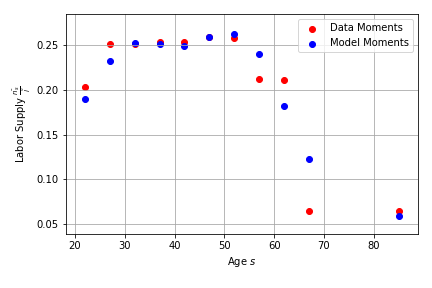
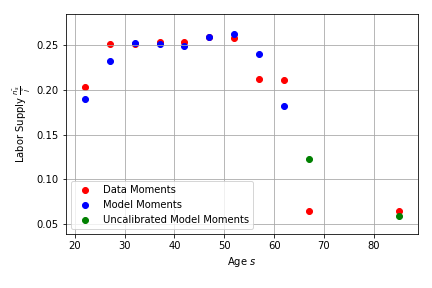
calibration files

diff --git a/ogusa/calibration/chebyshev_calibration.py b/ogusa/calibration/chebyshev_calibration.py
@@ -3,6 +3,7 @@ import numpy as np
 import pandas as pd
 import scipy.optimize as opt
 import matplotlib.pyplot as plt
+import scipy.interpolate as si
 
 def func(x, a0, a1, a2, a3, a4):
     func = np.polynomial.chebyshev.chebval(x, [a0, a1, a2, a3, a4])
@@ -29,8 +30,8 @@ def get_chebyshev_params(data_moments):
     ages = np.linspace(20, 65, 46)
     return np.polynomial.chebyshev.chebfit(ages, data_moments, 4)
 
-print('Values:')
-get_values(a0,a1,a2,a3,a4)
+# print('Values:')
+# get_values(a0,a1,a2,a3,a4)
 
 chi_values = np.array([97.18375544, 84.29385451, 73.28369617, 63.97171784, 56.18503188, #25
        49.75942557, 44.53936113, 40.37797572, 37.13708141, 34.68716522, #30
@@ -113,11 +114,128 @@ data_moments = get_data_moments()
 plt.xlabel(r'Age $s$')
 plt.ylabel(r'Labor Supply $\frac{\bar{n_s}}{\tilde{l}}$')
 plt.scatter(labels, data_moments, color = 'r', label = r'Data Moments')
-plt.legend(loc='upper right')
-plt.scatter(labels, model_moments, color = 'b', label = r'Model Moments')
-plt.legend(loc='upper right')
+plt.legend(loc='lower left')
+plt.scatter(labels[:-2], model_moments[:-2], color = 'b', label = r'Model Moments')
+plt.legend(loc='lower left')
+plt.scatter(labels[-2:], model_moments[-2:], color = 'g', label = r'Uncalibrated Model Moments')
+plt.legend(loc='lower left')
 plt.grid(b=True, which='major', color='0.65', linestyle='-')
 plt.tight_layout(rect=(0, 0.03, 1, 1))
 plt.savefig("labor_moments.png")
 plt.show()
 plt.close()
+
+#%%
+# new chi_n calibration:
+labor_hours = np.array([167, 165, 165, 165, 165, 166, 165, 165, 164])#, 166, 164])
+labor_part_rate = np.array([0.69, 0.849, 0.849, 0.847, 0.847, 0.859, 0.859, 0.709, 0.709])#, 0.212, 0.212])
+employ_rate = np.array([0.937, 0.954, 0.954, 0.966, 0.966, 0.97, 0.97, 0.968, 0.968])#, 0.978, 0.978])
+labor_hours_adj = labor_hours * labor_part_rate * employ_rate
+labor_moments = labor_hours_adj * 12 / (365 * 17.5)
+data_moments_trunc = np.array(list(labor_moments.flatten()))
+model_moments = [0.22590727491968024, 0.25431586945815365, 
+0.23899521787783148, 0.23480598940322048, 0.23129310947391893, 
+0.23390337806027334, 0.2307653823166511, 0.18977931340477963, 
+0.1919241624948257, 0.12291577097771472, 0.05630052613129159] # used now !
+ages = np.array([20, 25, 30, 35, 40, 45, 50, 55, 60]) + 2.5
+ages_new = np.array([20, 25, 30, 35, 40, 45, 50, 55, 60, 65, 83]) + 2.5
+plt.scatter(ages, labor_moments, color = 'b', label = r'Data Labor Supply')
+plt.legend(loc='lower center')
+labor_fun = si.splrep(ages, data_moments_trunc)
+ages_full = np.linspace(21, 65, 45)
+plt.scatter(ages_new, model_moments)
+data_moments = si.splev(ages_full, labor_fun)
+data_moments = np.repeat(data_moments_trunc, 5)
+plt.xlabel(r'Age $s$')
+plt.ylabel(r'Labor Supply $\frac{\bar{n_s}}{\tilde{l}}$')
+plt.plot(ages_full, data_moments, color = 'r', label = r'Interpolated Labor Supply')
+plt.legend(loc='lower center')
+plt.grid(b=True, which='major', color='0.65', linestyle='-')
+plt.tight_layout(rect=(0, 0.03, 1, 1))
+plt.savefig("labor_interp_moments.png")
+plt.show()
+plt.close()
+
+#%%
+
+
+#%%
+labor_model_moments = [0.1505088,  0.17247978, 0.19173943, 0.20384064, 0.21440464, 0.22152762,
+ 0.22673891, 0.22839788, 0.22918112, 0.22999457, 0.22787117, 0.22733152,
+ 0.22684068, 0.22703397, 0.22750995, 0.22849704, 0.22876223, 0.22900503,
+ 0.22921177, 0.22856699, 0.22818275, 0.22791578, 0.22799495, 0.22832315,
+ 0.2299042,  0.23016361, 0.23144241, 0.23280788, 0.23469094, 0.23517582,
+ 0.2348437,  0.23260581, 0.22806237, 0.22129255, 0.21391063, 0.20970673,
+ 0.20365511, 0.19579935, 0.18634477, 0.18079557, 0.18481301, 0.18815781,
+ 0.24743148, 0.26094669, 0.2383649]
+labor_model_moments = [0.17280152, 0.20534884, 0.21147639, 0.235289,   0.15444407, 0.24695376,
+ 0.24446594, 0.36640391, 0.24128191, 0.2417963,  0.36377637, 0.36090858,
+ 0.2265956,  0.22555885, 0.22388283, 0.37432606, 0.37387789, 0.2589133,
+ 0.25978143, 0.26084655, 0.26193238, 0.26317574, 0.25433178, 0.25469551,
+ 0.25553841, 0.26156649, 0.26460427, 0.26171686, 0.26143935, 0.26128624,
+ 0.25956558, 0.27575473, 0.27309331, 0.260688,   0.25954435, 0.1522682,
+ 0.22007837, 0.340535,   0.22563522, 0.21350816, 0.22264555, 0.222299,
+ 0.28487272, 0.18735744, 0.27701419]
+labor_model_moments = [0.25633439, 0.20093815, 0.21150954, 0.14738601, 0.2470485,  0.25100865,
+ 0.2511992,  0.23955692, 0.25376025, 0.25342003, 0.23735469, 0.23313953,
+ 0.36218893, 0.35912872, 0.35786861, 0.24355104, 0.24288904, 0.26385762,
+ 0.26479566, 0.26605243, 0.26743212, 0.1686283,  0.25984173, 0.25994932,
+ 0.26027909, 0.26672784, 0.16758965, 0.26689141, 0.26675111, 0.26672056,
+ 0.26514682, 0.26366972, 0.26478251, 0.26533119, 0.26478102, 0.24763209,
+ 0.22415406, 0.21668019, 0.2165665,  0.31061041, 0.21997966, 0.219987,
+ 0.17995947, 0.30301344, 0.17490099]
+labor_model_moments = [0.20878565, 0.1975463,  0.2024006,  0.19690515, 0.20710516, 0.25753327,
+ 0.24368167, 0.24587537, 0.24728257, 0.24453552, 0.24353383, 0.24319411,
+ 0.24326923, 0.24390919, 0.24492123, 0.24645355, 0.24714776, 0.24788457,
+ 0.24855516, 0.24835614, 0.24847061, 0.24876036, 0.24939762, 0.25036787,
+ 0.25267278, 0.25341386, 0.25523224, 0.25731923, 0.25928462, 0.26046565,
+ 0.2600806,  0.25763767, 0.25242267, 0.2484289,  0.25953835, 0.21015545,
+ 0.20365892, 0.21476219, 0.20367817, 0.21676054, 0.22109761, 0.20413805,
+ 0.20310546, 0.21396072, 0.21728373]
+
+plt.xlabel(r'Age $s$')
+plt.ylabel(r'Labor Supply $\frac{\bar{n_s}}{\tilde{l}}$')
+ages = np.array([20, 25, 30, 35, 40, 45, 50, 55, 60]) + 2.5
+labor_fun = si.splrep(ages, data_moments_trunc)
+ages_full = np.linspace(21, 65, 45)
+data_moments = np.repeat(data_moments_trunc, 5)
+plt.plot(ages_full, data_moments, color = 'r', label = r'Interpolated Data Moments')
+plt.legend(loc='lower center')
+plt.scatter(ages_full, labor_model_moments, color = 'b', label = r'Model Moments')
+plt.legend(loc='lower center')
+plt.tight_layout(rect=(0, 0.03, 1, 1))
+plt.savefig("labor_trial1.png")
+plt.show()
+plt.close()
+
+#%%
+# Plot Chi_n
+chi_n_values = [109.86719764, 106.06662648, 97.53350752, 98.67194012, 89.18637004,
+  63.63262154,  68.73372453, 68.08110162, 67.99462187, 69.9290688,
+  71.28638356, 72.21669868, 73.14630267, 74.05352534, 74.77536528,
+  75.29121172, 76.31856054, 77.30599801, 78.4446991, 79.82121387,
+  81.07389146, 82.11311563, 82.88768804, 83.44404256, 83.26481037,
+  83.69296118, 83.50898674, 83.13352735, 82.38135449, 82.33264806,
+  82.69450477, 83.91409057, 86.3669977, 88.13816005, 82.19960535,
+ 111.36520435, 115.46772834, 105.47260457, 112.29498048, 100.777425,
+  95.88893856, 105.2745885, 103.238911, 92.76672994, 87.57323408,
+ 133.61104417, 147.37526863, 161.1394931, 174.90371757, 188.66794204,
+ 202.4321665, 216.19639097, 229.96061544, 243.7248399, 257.48906437,
+ 271.25328884, 285.0175133, 298.78173777, 312.54596224, 326.31018671,
+ 340.07441117, 353.83863564, 367.60286011, 381.36708457, 395.13130904,
+ 408.89553351, 422.65975798, 436.42398244, 450.18820691, 463.95243138,
+ 477.71665584, 491.48088031, 505.24510478, 519.00932925, 532.77355371,
+ 546.53777818, 560.30200265, 574.06622711, 587.83045158, 601.59467605]
+
+ages_full = np.linspace(21, 100, 80)
+print(len(ages_full))
+print(len(chi_n_values))
+plt.scatter(ages_full, chi_n_values)
+plt.show()
+plt.close()
+
+ages_full = np.linspace(21, 65, 45)
+plt.scatter(ages_full, chi_n_values[:45])
+plt.show()
+plt.close()
+
